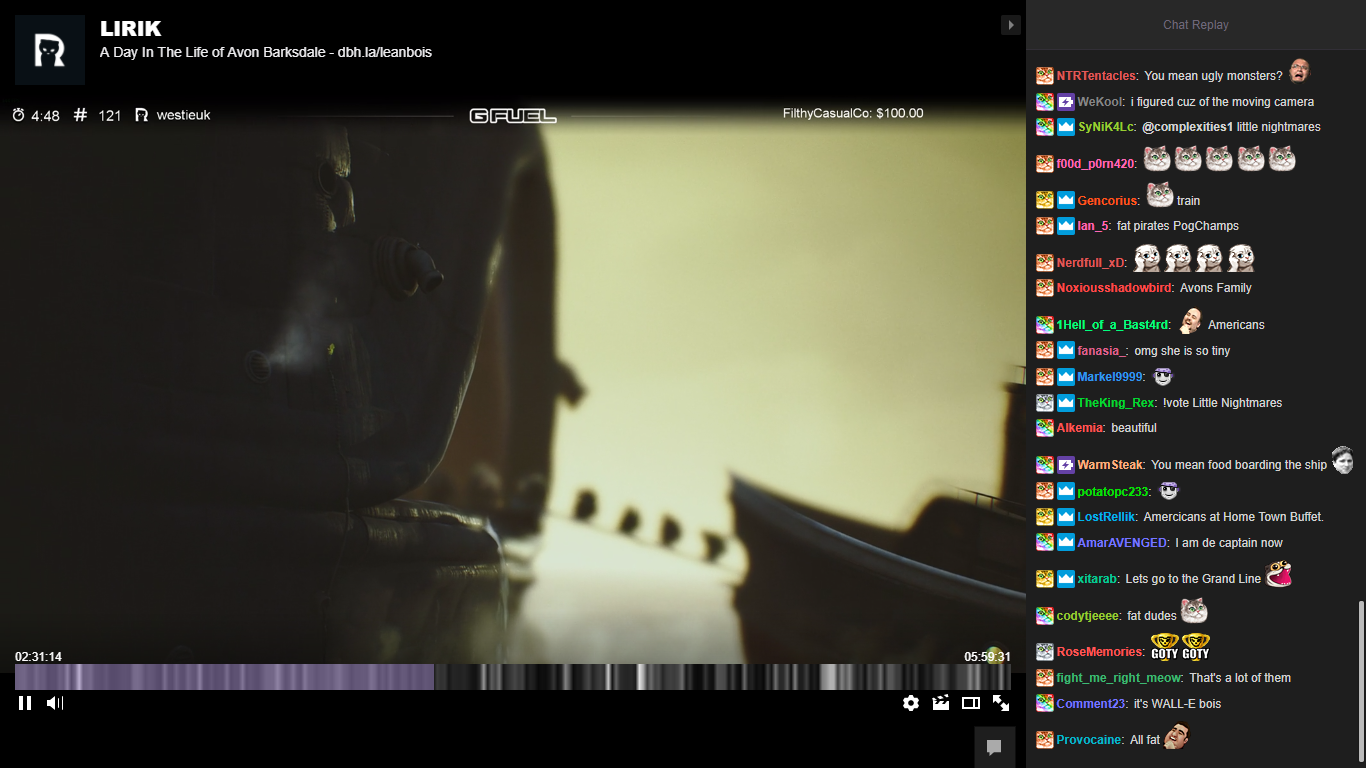
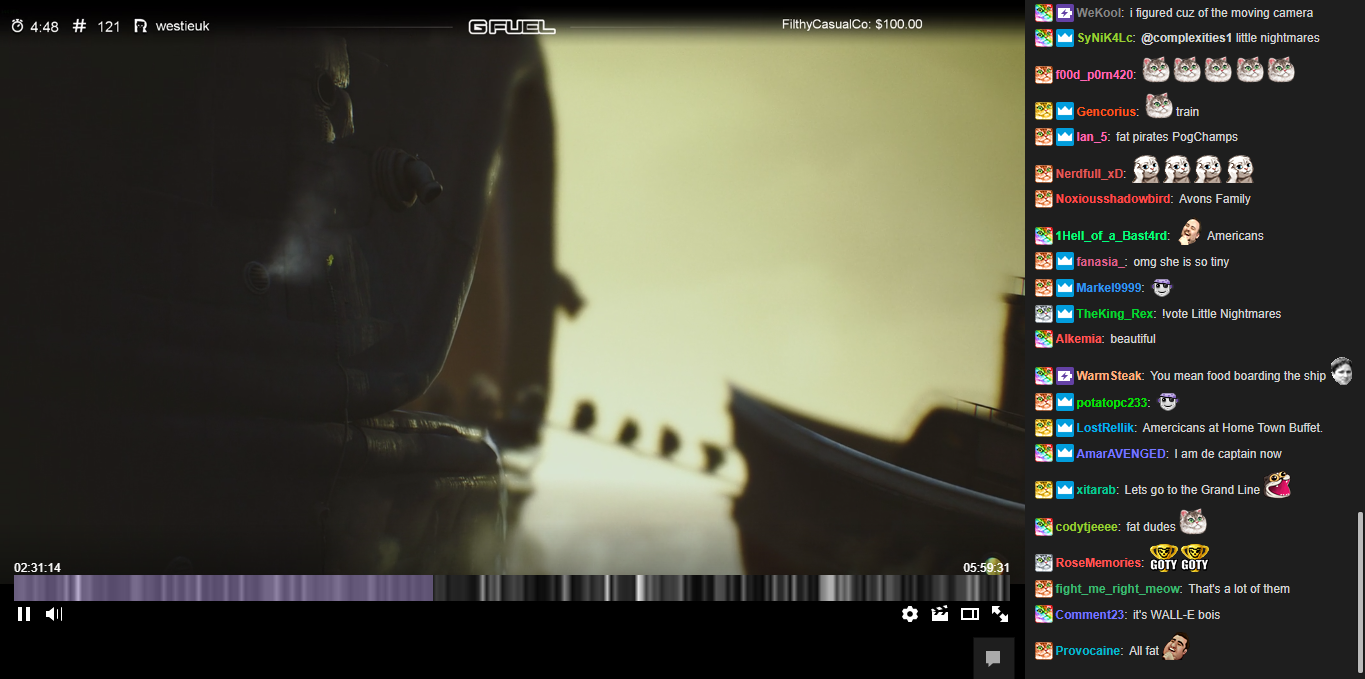
Update README.md

diff --git a/README.md b/README.md
@@ -1,1 +1,1 @@
-# TwitchVODEnhancer
+![alt text](https://raw.githubusercontent.com/sooqua/TwitchVODEnhancer/master/screenshot.png)  
